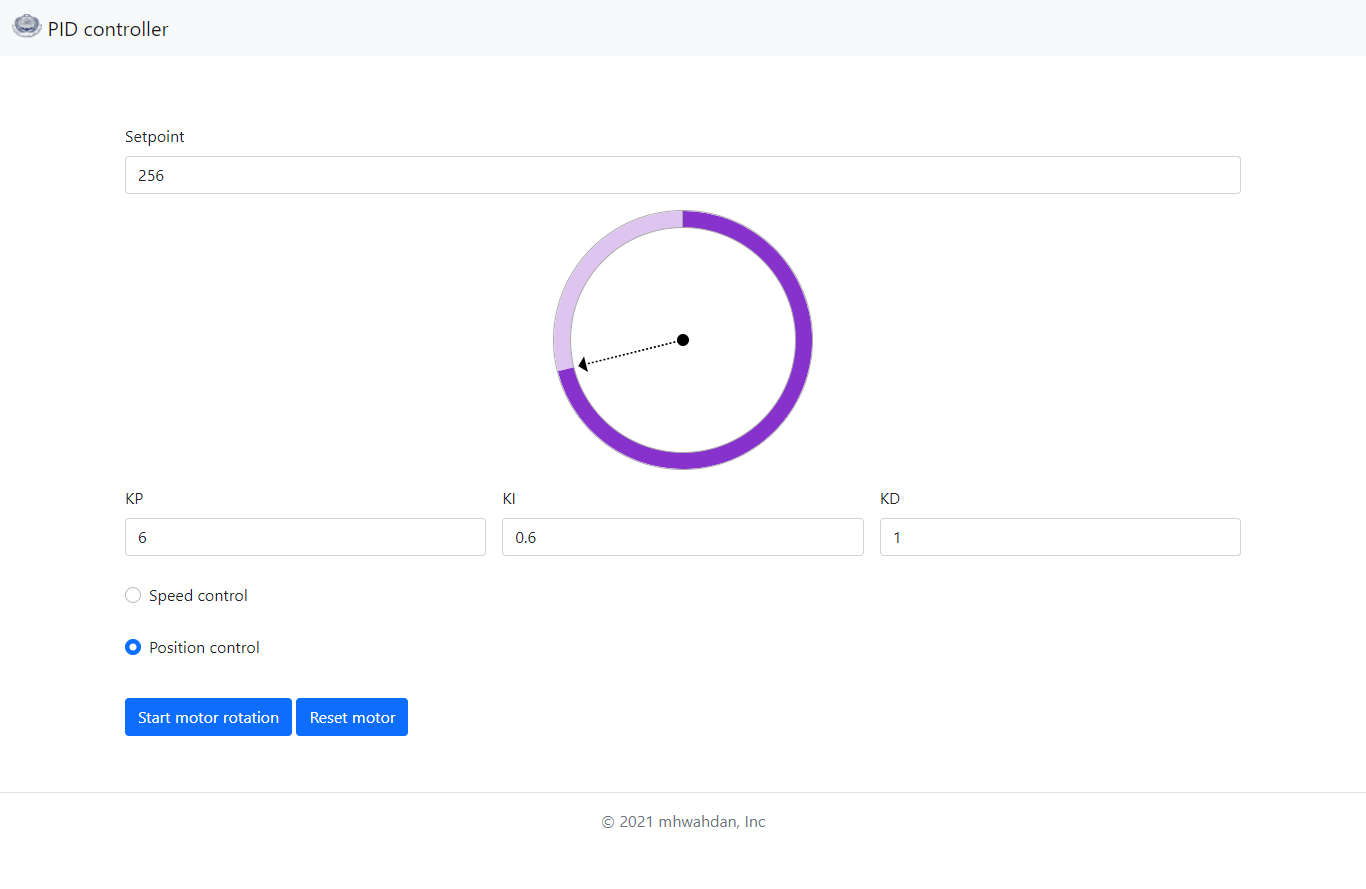
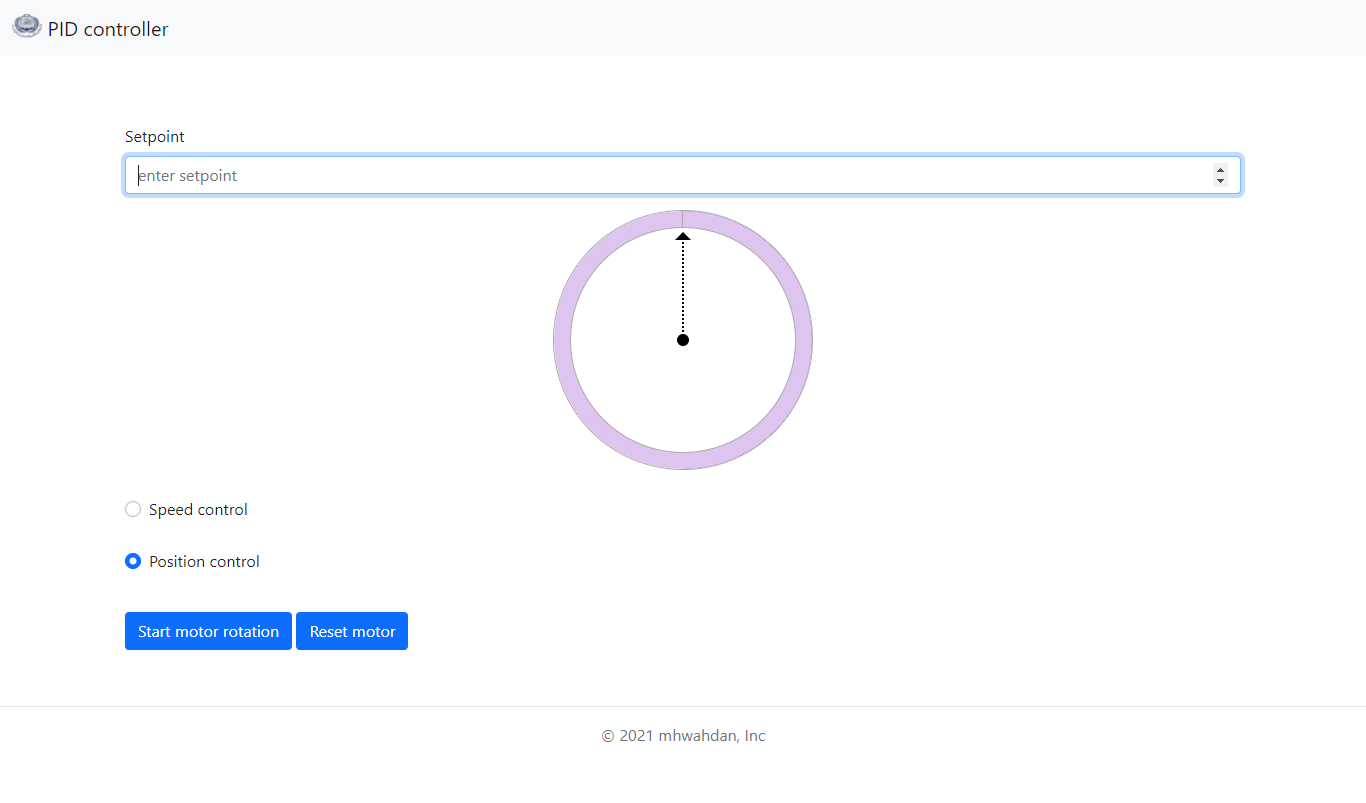
more fixes

diff --git a/UI/templates/PID/index.html b/UI/templates/PID/index.html
@@ -50,18 +50,6 @@
                 <div class="container">
                     <div id="slider" style="margin: auto;"></div>
                 </div>
-                <div class="col-md-4">
-                    <label for="KP" class="form-label">KP</label>
-                    <input type="number" step="0.00001" name="kp" class="form-control" id="KP">
-                </div>
-                <div class="col-md-4">
-                    <label for="KI" class="form-label">KI</label>
-                    <input type="number" step="0.00001" name="ki" class="form-control" id="KI">
-                </div>
-                <div class="col-md-4">
-                    <label for="KD" class="form-label">KD</label>
-                    <input type="number" step="0.00001" name="kd" class="form-control" id="KD">
-                </div>
             </div>
             <div class="row g-3" style="margin-top: 1%;margin-bottom: 1%;">
                 <div class="col-sm-10">
